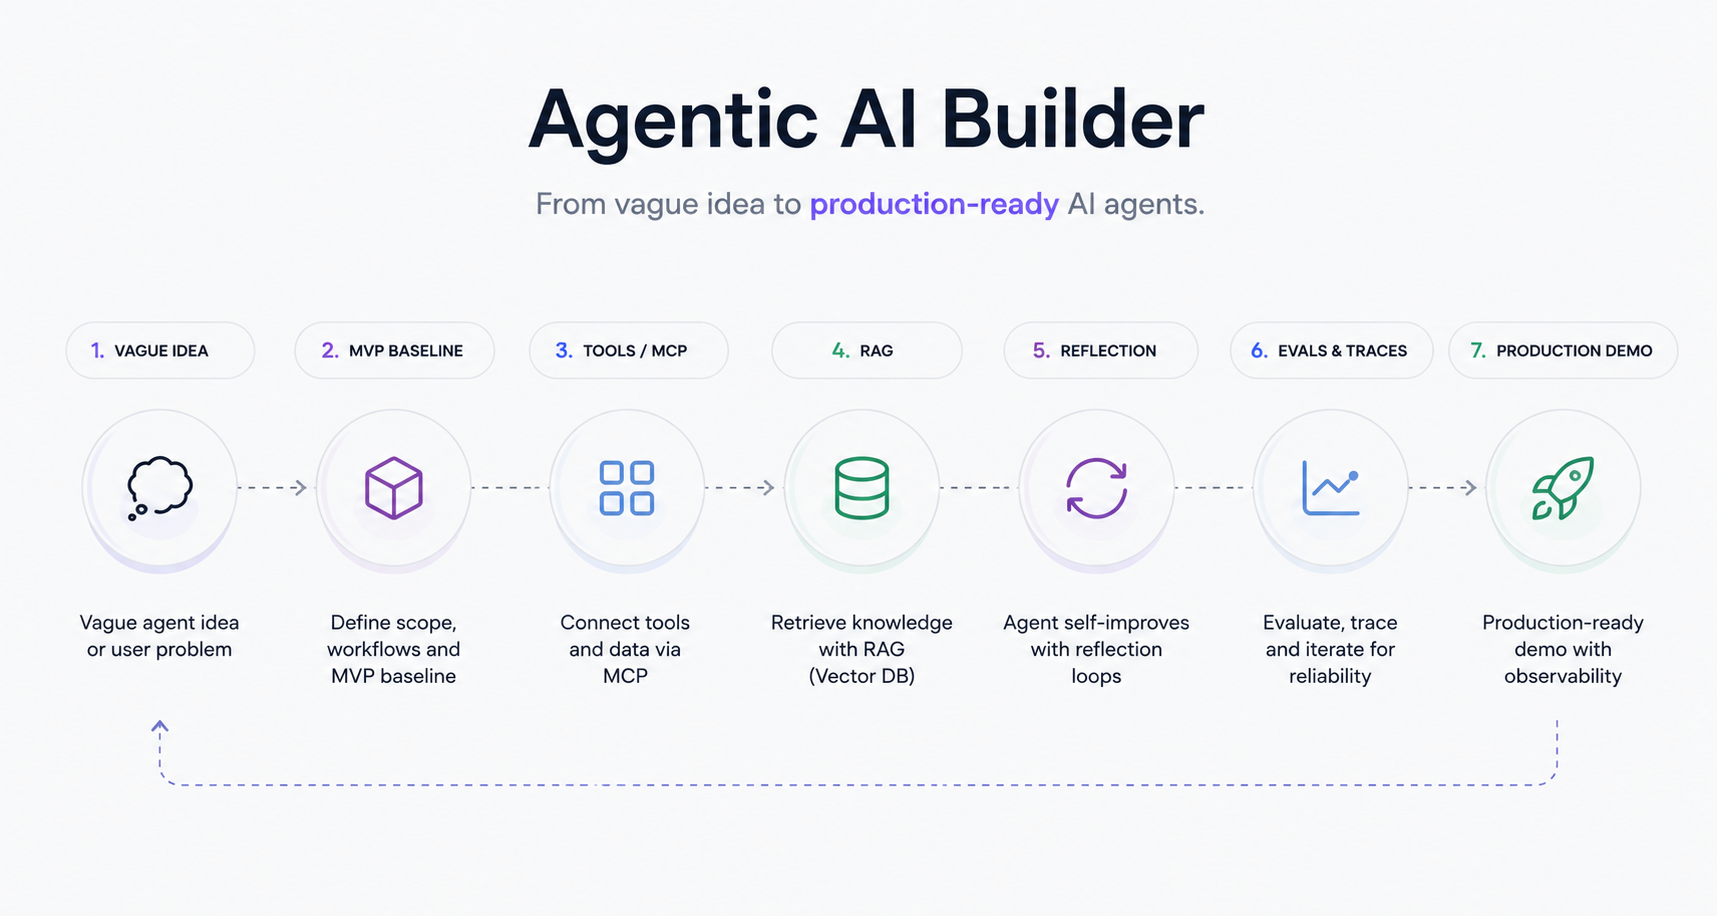
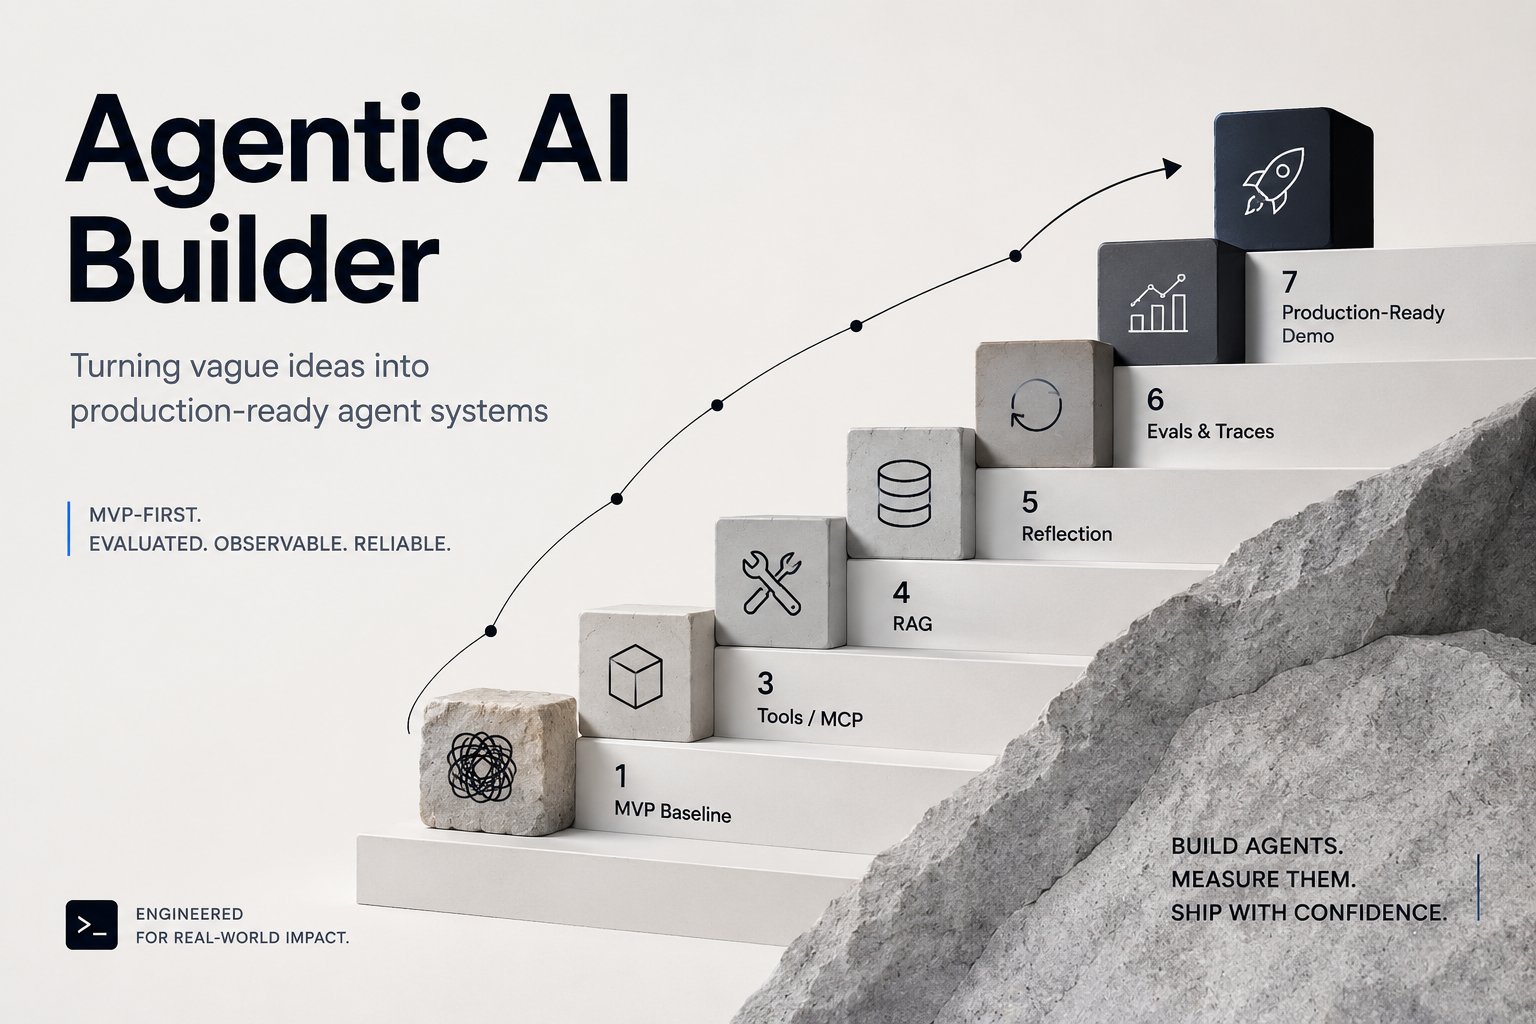
Refactor CSS styles for improved layout and readability; update HTML to remove unused elements and revise content for accuracy.

diff --git a/assets/css/style.css b/assets/css/style.css
@@ -159,7 +159,7 @@ a:focus-visible {
   align-items: center;
   justify-content: space-between;
   gap: 16px;
-  padding: 16px 0 20px;
+  padding: 32px 0 20px;
   background: var(--bg);
   border-bottom: 1px solid var(--line);
 }
@@ -168,23 +168,6 @@ a:focus-visible {
   position: relative;
   flex: 1;
   min-width: 0;
-  padding-bottom: 20px;
-}
-
-.nav-agent-track {
-  position: absolute;
-  right: 0;
-  bottom: 8px;
-  left: 0;
-  height: 1px;
-  background: linear-gradient(
-    90deg,
-    transparent,
-    var(--line-strong) 8%,
-    var(--line-strong) 92%,
-    transparent
-  );
-  pointer-events: none;
 }
 
 .side-links {
@@ -488,15 +471,13 @@ body[data-theme="light"] .portrait-card {
   box-shadow: none;
 }
 
-/* On the light site the portrait keeps its dark-mode backdrop so the
-   ASCII art stays readable and on-brand. */
+/* No backdrop on the light site — the ASCII art sits straight on the page
+   and stays readable because the canvas inks itself in the light-theme
+   accent (see readAccent in index.html). */
 body[data-theme="light"] .portrait-card--ascii {
-  border-color: var(--line-strong);
-  border-radius: 14px;
-  background-color: #071426;
-  background-image: radial-gradient(rgba(118, 169, 255, 0.08) 1px, transparent 1px);
-  background-size: 22px 22px;
-  box-shadow: 0 14px 32px -22px rgba(15, 20, 25, 0.2);
+  border-color: transparent;
+  background: transparent;
+  box-shadow: none;
 }
 
 .portrait-canvas {
@@ -815,11 +796,6 @@ body[data-theme="light"] .portrait-card--ascii {
   .side-nav__track {
     order: 3;
     flex: 1 1 100%;
-    padding-bottom: 0;
-  }
-
-  .nav-agent-track {
-    display: none;
   }
 
   .side-links {
@@ -1671,7 +1647,7 @@ body[data-theme="light"] .portrait-card--ascii {
   font-weight: 600;
   line-height: 1.15;
   letter-spacing: -0.035em;
-  margin: 8px 0 10px;
+  margin: 0 0 10px;
 }
 
 .blog-hero__subtitle {

diff --git a/index.html b/index.html
@@ -56,7 +56,6 @@
             <a href="#projects" class="side-link">Projects</a>
             <a href="blog.html" class="side-link">Blog</a>
           </nav>
-          <div class="nav-agent-track" aria-hidden="true"></div>
         </div>
 
         <div class="side-tools">
@@ -101,8 +100,8 @@
         <section id="about" class="hero content-view">
           <div class="hero-copy" data-reveal>
             <p class="lead">
-              I’m 24 and currently pursuing my master’s in Computer Science at
-              Florida Atlantic University, graduating in May 2026.
+              I’m 25 and recently completed my master’s in Computer Science at
+              Florida Atlantic University.
             </p>
             <p class="hero-text">
               I’m open to ML engineering, software engineering, and internship
@@ -736,15 +735,16 @@
         let fontSize = 0;
         let cssW = 0;
         let cssH = 0;
-        let accent = "#3fffc2";
+        let accent = "#5b9dff";
 
         const pointer = { x: 0, y: 0, active: false };
 
         const readAccent = () => {
-          // The portrait always renders in its dark-mode palette — even on
-          // the light site it sits on a dark backdrop — so keep the bright
-          // accent and never switch to the light-theme value.
-          accent = "#3fffc2";
+          // Ink the portrait per theme so it reads with no backdrop box:
+          // a bright sky blue on the dark site, a strong, saturated blue on
+          // the light one (a deep near-ink tone was too faint on the pale page).
+          accent =
+            document.body.dataset.theme === "light" ? "#2563eb" : "#5b9dff";
         };
 
         // Recompute the grid geometry for the current canvas box + DPR.

diff --git a/blog.html b/blog.html
@@ -58,7 +58,6 @@
               >Blog</a
             >
           </nav>
-          <div class="nav-agent-track" aria-hidden="true"></div>
         </div>
 
         <div class="side-tools">
@@ -101,12 +100,7 @@
 
       <div class="content-column">
         <header class="blog-hero" aria-labelledby="blog-title">
-          <p class="section-label" data-reveal>Writing</p>
           <h1 id="blog-title" data-reveal>Blog</h1>
-          <p class="blog-hero__subtitle" data-reveal>
-            Notes on machine learning, the projects I build, and what I learn
-            shipping them.
-          </p>
         </header>
 
         <ul class="blog-grid" id="blogGrid" aria-label="Blog posts">